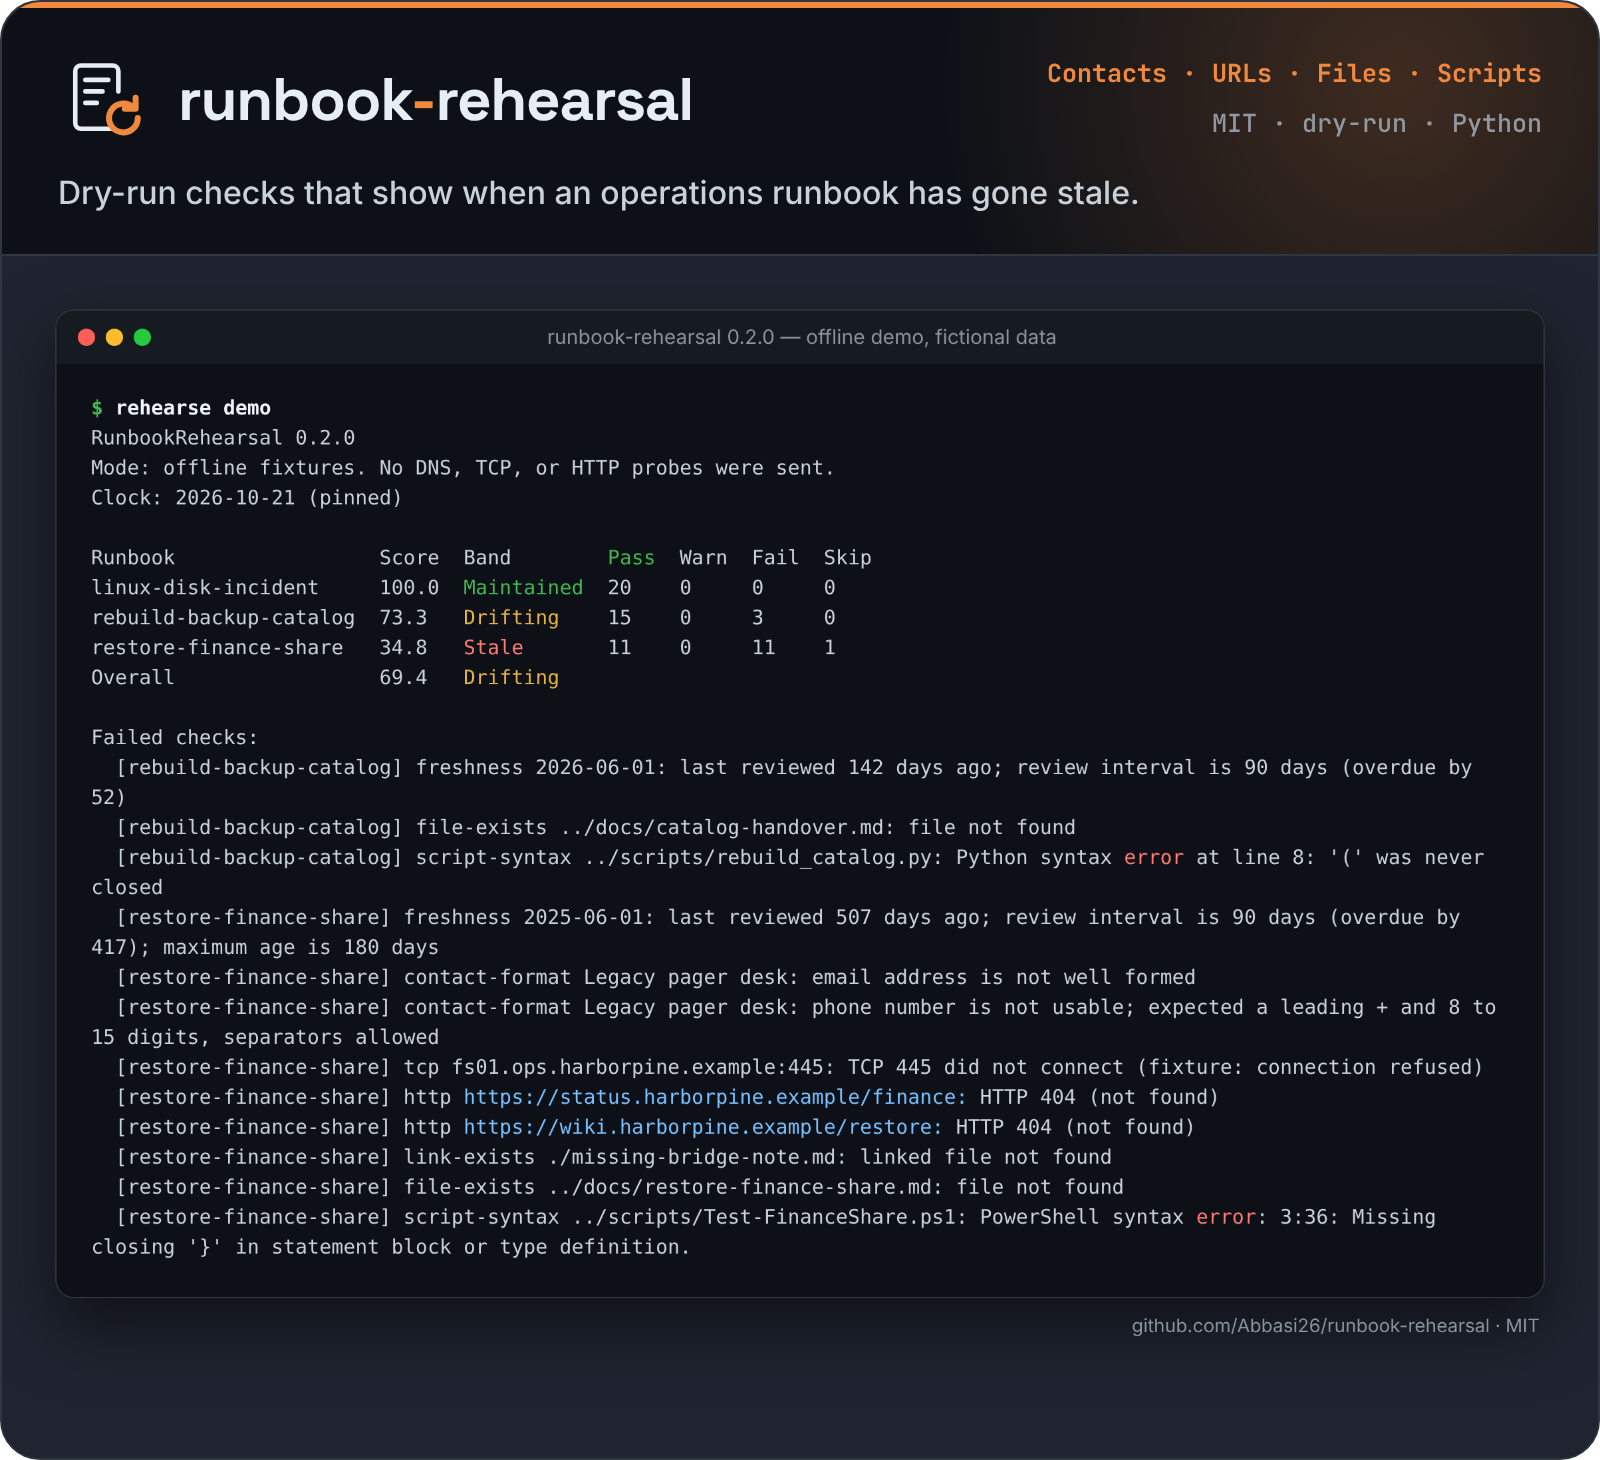
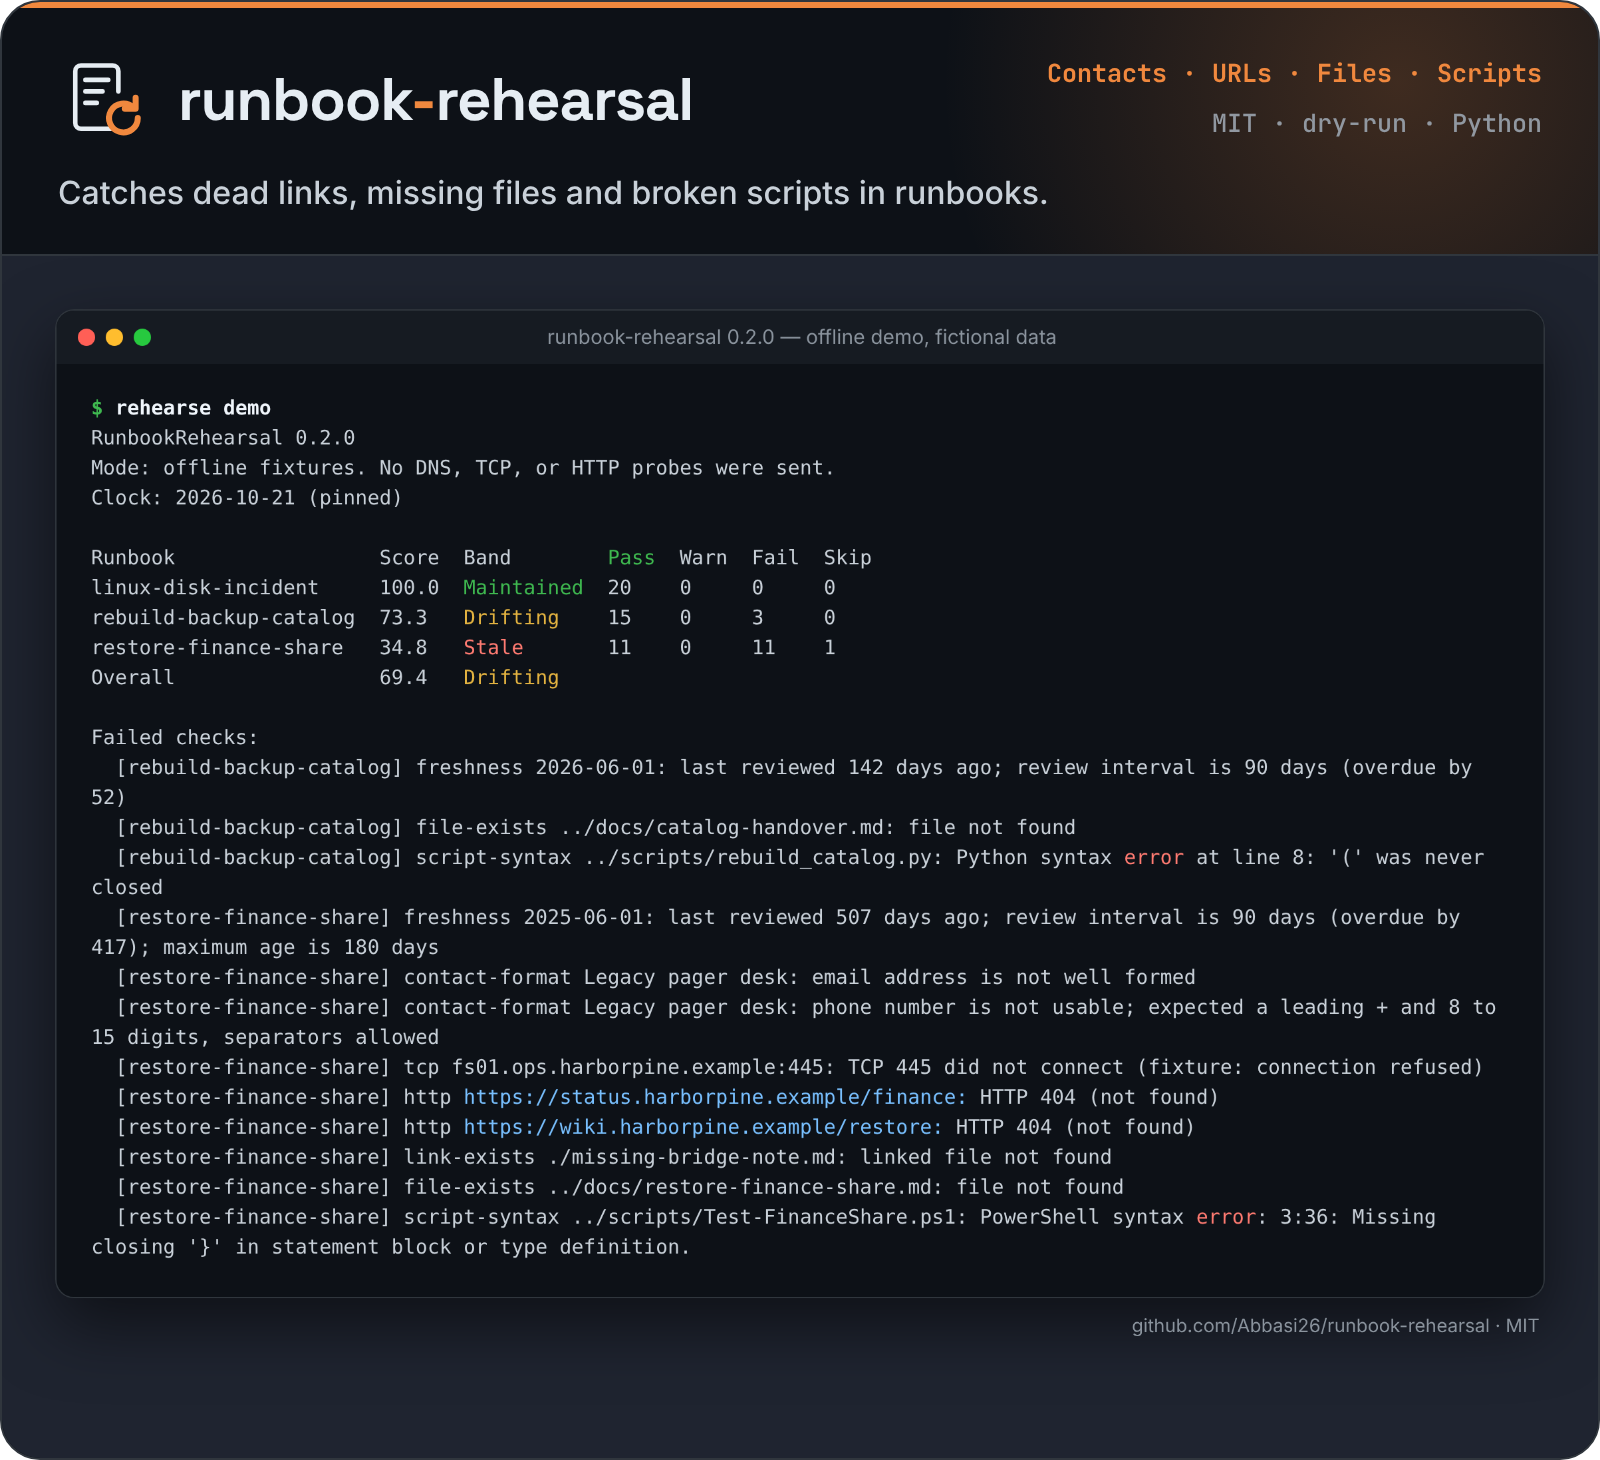
docs: update README header and hero from revised assets
Replaces the hero image, social preview and README header block with the revised design; the original title and the rest of the README are unchanged.

Changed region(s): [[0.0312, 0.1233, 0.7188, 0.1541]]

diff --git a/README.md b/README.md
@@ -6,7 +6,7 @@
   </picture>
 </p>
 
-<p align="center">Dry-run checks that show when an operations runbook has gone stale.</p>
+<p align="center">Catches dead links, missing files and broken scripts in runbooks.</p>
 
 <p align="center">
   <img src="docs/assets/readme-hero.png" width="800" alt="Terminal output of rehearse demo: three fictional runbooks scored Maintained, Drifting and Stale, followed by the failed checks such as overdue reviews, HTTP 404 links, missing files and script syntax errors.">
